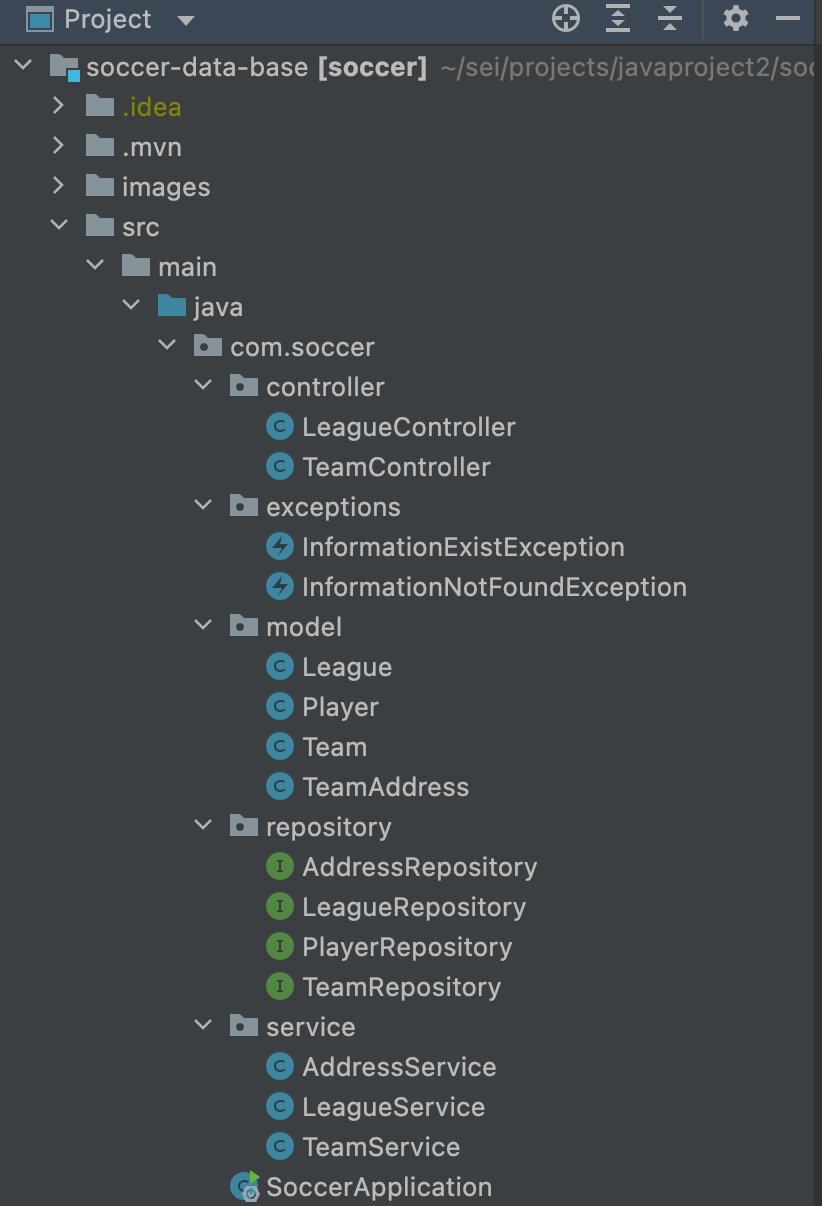
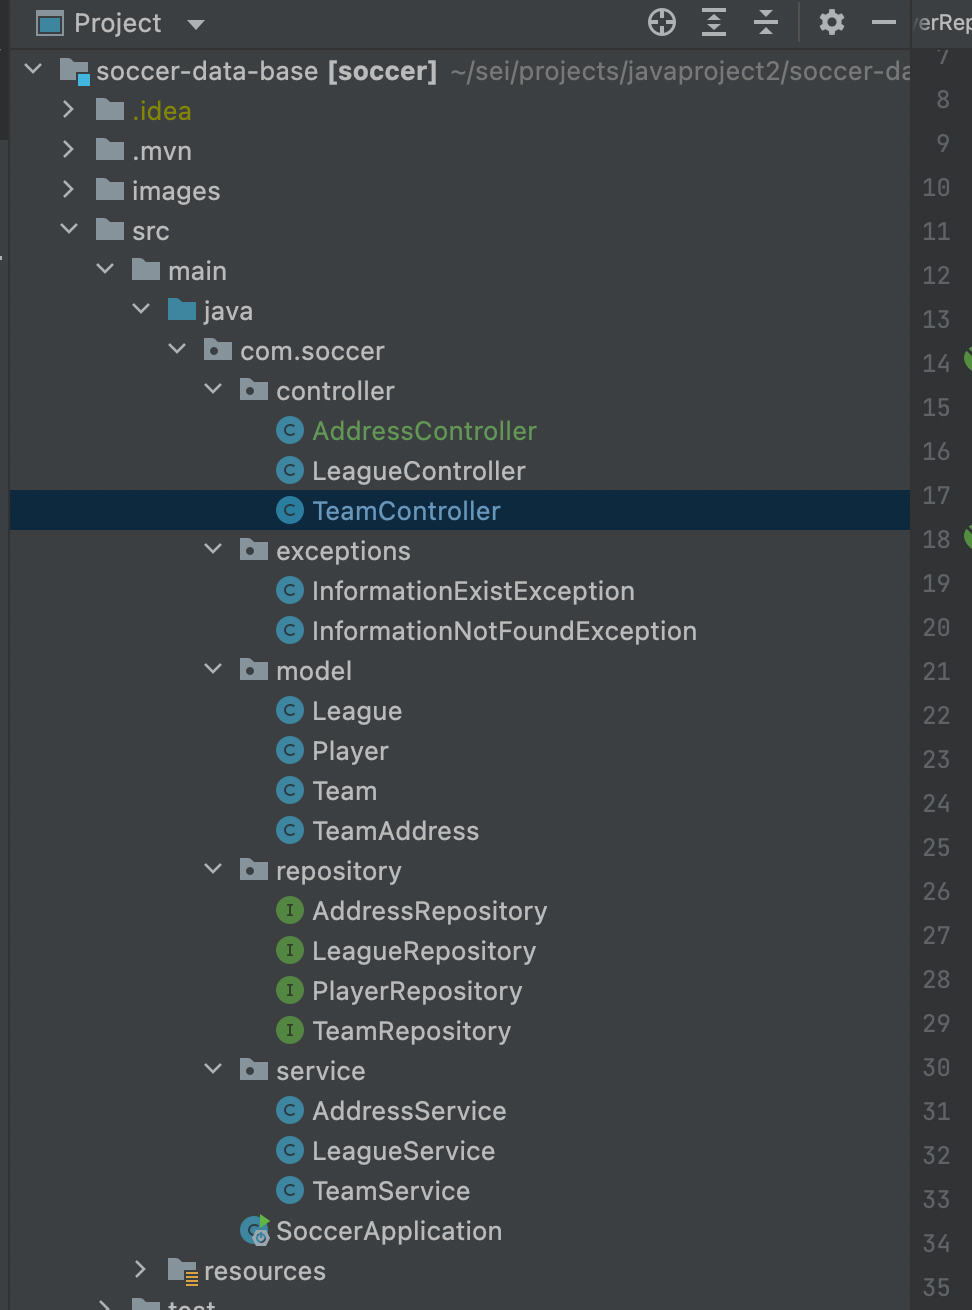
adding new image with the project structure

Changed region(s): [[0.0, 0.0, 1.0, 1.0], [0.9732, 0.3988, 1.0, 0.4295]]

diff --git a/src/main/java/com/soccer/controller/TeamController.java b/src/main/java/com/soccer/controller/TeamController.java
@@ -19,12 +19,7 @@ public class TeamController {
     public void setTeamRepository(TeamService teamService){
         this.teamService = teamService;
     }
-    private AddressService addressService;
 
-    @Autowired
-    public void setAddressService(AddressService addressService){
-        this.addressService = addressService;
-    }
 
     @GetMapping(path = "/hello-world/")
     public String getHelloWorld(){
@@ -78,18 +73,6 @@ public class TeamController {
                                  @PathVariable(value = "playerId") Long playerId)
     {
         teamService.deleteTeamPlayer(teamId, playerId);
-    }
-    @PostMapping("/address/")
-    public TeamAddress createAddress(@RequestBody TeamAddress addressObject){
-        return addressService.createTeamAddress(addressObject);
-    }
-    @PutMapping("/address/{addressId}/")
-    public TeamAddress updateTeamAddress(@PathVariable(value = "addressId") Long id, @RequestBody TeamAddress teamAddressObject){
-        return addressService.updateTeamAddress(id, teamAddressObject);
-    }
-    @GetMapping("/address/")
-    public List<TeamAddress> getAllAddresses(){
-        return addressService.getAllAddresses();
     }
 
 

diff --git a/src/main/java/com/soccer/controller/AddressController.java b/src/main/java/com/soccer/controller/AddressController.java
@@ -1,0 +1,31 @@
+package com.soccer.controller;
+
+import com.soccer.model.TeamAddress;
+import com.soccer.service.AddressService;
+import org.springframework.beans.factory.annotation.Autowired;
+import org.springframework.web.bind.annotation.*;
+
+import java.util.List;
+
+public class AddressController {
+    private AddressService addressService;
+
+    @Autowired
+    public void setAddressService(AddressService addressService){
+        this.addressService = addressService;
+    }
+
+    @PostMapping("/address/")
+    public TeamAddress createAddress(@RequestBody TeamAddress addressObject){
+        return addressService.createTeamAddress(addressObject);
+    }
+    @PutMapping("/address/{addressId}/")
+    public TeamAddress updateTeamAddress(@PathVariable(value = "addressId") Long id, @RequestBody TeamAddress teamAddressObject){
+        return addressService.updateTeamAddress(id, teamAddressObject);
+    }
+    @GetMapping("/address/")
+    public List<TeamAddress> getAllAddresses(){
+        return addressService.getAllAddresses();
+    }
+
+}

diff --git a/README.md b/README.md
@@ -58,6 +58,7 @@ In the resources folder I changed I added a new file application-dev.properties 
 |8. As a user, I would like to modify a player salary/position.
 |9. As a user, I would like to delete a player from the team.
 |10. As a user, I would like to list all the players in the team.
+|11. As a user, I would like to modify the address of a team.
 
 ## System Tools Used
 
